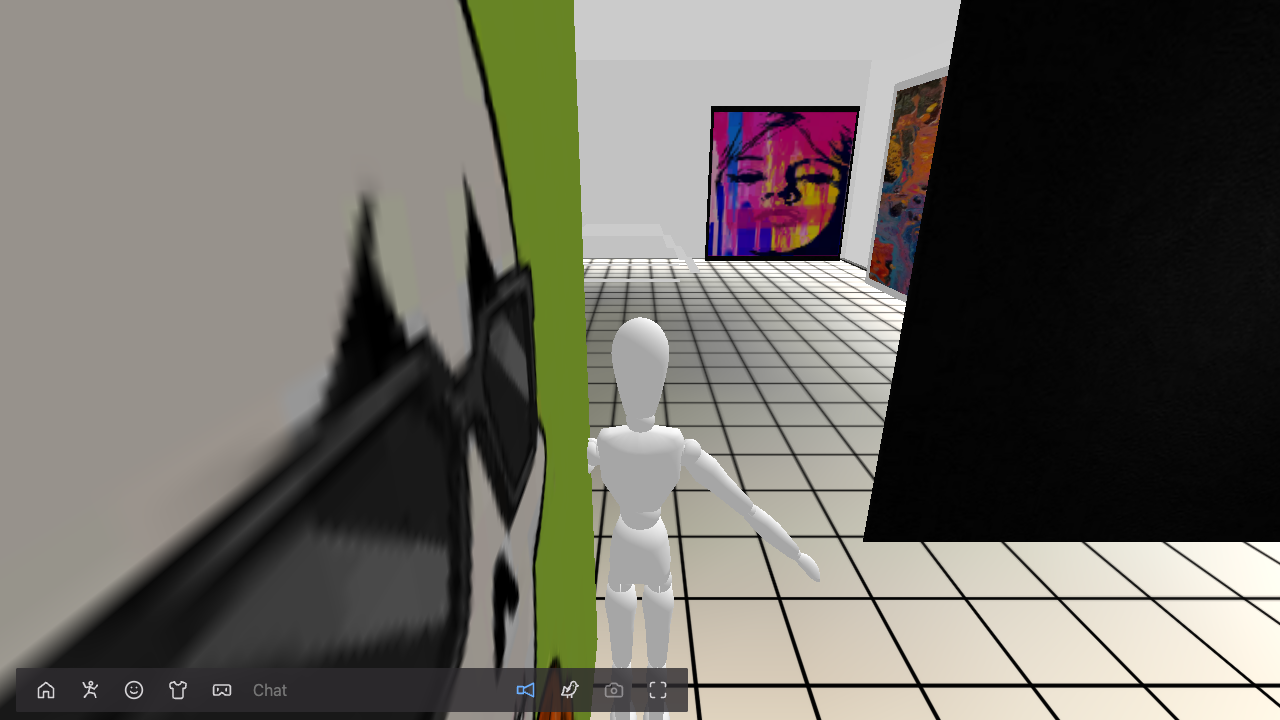
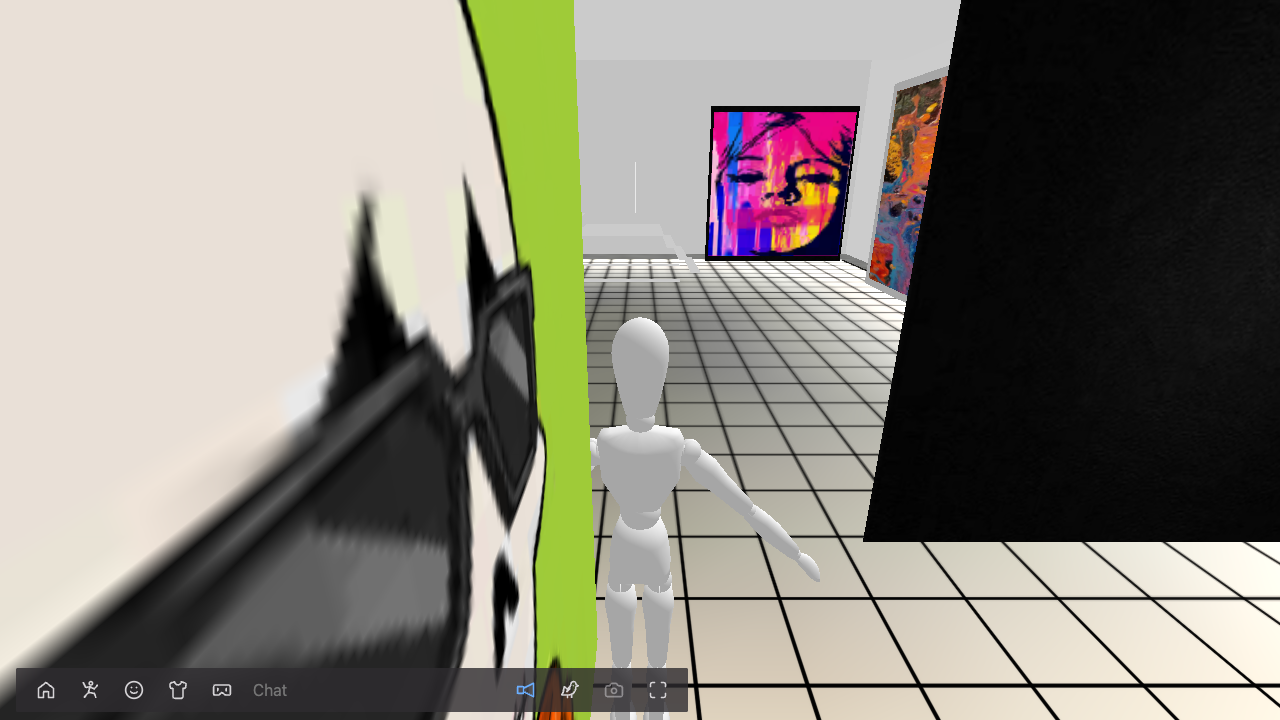
Restore NG transparency and image blending

diff --git a/src/render/renderer.ts b/src/render/renderer.ts
@@ -2,10 +2,12 @@ import { mat4 } from 'wgpu-matrix'
 
 const shader = /* wgsl */ `
 struct Camera { vp: mat4x4<f32>, eye: vec4<f32>, fog: vec4<f32> }
-struct Object { world: mat4x4<f32>, tint: vec4<f32>, uv: vec4<f32> }
+struct Object { world: mat4x4<f32>, tint: vec4<f32>, uv: vec4<f32>, flags: vec4<f32>, opacityUV: vec4<f32> }
 @group(0) @binding(0) var<uniform> camera: Camera;
 @group(1) @binding(0) var picture: texture_2d<f32>;
 @group(1) @binding(1) var filtering: sampler;
+@group(1) @binding(2) var opacity: texture_2d<f32>;
+@group(1) @binding(3) var opacityFiltering: sampler;
 @group(2) @binding(0) var<storage, read> objects: array<Object>;
 struct Vertex {
   @builtin(position) clip: vec4<f32>,
@@ -13,6 +15,8 @@ struct Vertex {
   @location(1) uv: vec2<f32>,
   @location(2) normal: vec3<f32>,
   @location(3) position: vec3<f32>,
+  @location(4) @interpolate(flat) flags: vec4<f32>,
+  @location(5) opacityUV: vec2<f32>,
 }
 @vertex fn vertex(@location(0) position: vec3<f32>, @location(1) normal: vec3<f32>,
   @location(2) uv: vec2<f32>, @location(3) color: vec4<f32>, @builtin(instance_index) instance: u32) -> Vertex {
@@ -20,24 +24,36 @@ struct Vertex {
   let world = object.world * vec4<f32>(position, 1.0);
   var out: Vertex;
   out.clip = camera.vp * world;
-  out.color = color * object.tint;
+  out.color = vec4<f32>(color.rgb, select(1.0, color.a, (u32(object.flags.x) & 8u) != 0u)) * object.tint;
   out.uv = uv * object.uv.xy + object.uv.zw;
+  out.opacityUV = uv * object.opacityUV.xy + object.opacityUV.zw;
+  out.flags = object.flags;
   let a = object.world[0].xyz; let b = object.world[1].xyz; let c = object.world[2].xyz;
   out.normal = normalize(mat3x3<f32>(cross(b,c), cross(c,a), cross(a,b)) * normal * sign(dot(a,cross(b,c))));
   out.position = world.xyz;
   return out;
 }
 @fragment fn fragment(in: Vertex) -> @location(0) vec4<f32> {
-  let surface = textureSample(picture, filtering, in.uv) * in.color;
-  if (surface.a < 0.5) { discard; }
-  let light = 0.65 + 0.35 * max(dot(normalize(in.normal), normalize(vec3<f32>(0.4, 0.8, 0.3))), 0.0);
+  let texel = textureSample(picture, filtering, in.uv);
+  let flags = u32(in.flags.x);
+  let dx = dpdx(in.opacityUV); let dy = dpdy(in.opacityUV);
+  var alpha = in.color.a * select(1.0, texel.a, (flags & 1u) != 0u);
+  if ((flags & 2u) != 0u) {
+    var mask = texel;
+    if ((flags & 32u) == 0u) { mask = textureSampleGrad(opacity, opacityFiltering, in.opacityUV, dx, dy); }
+    alpha *= select(mask.a, dot(mask.rgb, vec3<f32>(0.3, 0.59, 0.11)), (flags & 4u) != 0u) * in.flags.w;
+  }
+  if (alpha < in.flags.y) { discard; }
+  alpha = select(1.0, alpha, in.flags.z != 0.0);
+  let light = select(0.65 + 0.35 * max(dot(normalize(in.normal), normalize(vec3<f32>(0.4, 0.8, 0.3))), 0.0), 1.0, (flags & 16u) != 0u);
   let distance = length(in.position - camera.eye.xyz);
   let fog = smoothstep(camera.fog.w, camera.eye.w, distance);
-  return vec4<f32>(mix(surface.rgb * light, camera.fog.rgb, fog), 1.0);
+  let rgb = mix(texel.rgb * in.color.rgb * light, camera.fog.rgb, fog);
+  return vec4<f32>(rgb * select(1.0, alpha, (flags & 64u) != 0u), alpha);
 }`
 
 type Geometry = { vertices: GPUBuffer; indices: GPUBuffer; count: number; refs: number }
-type Item = { batch: Batch; slot: number }
+type Item = { batch: Batch; slot: number; x: number; y: number; z: number; alphaIndex: number; distance: number }
 type Batch = {
   key: string
   index: number
@@ -52,7 +68,13 @@ type Batch = {
   buffer: GPUBuffer
   binding: GPUBindGroup
   picture: GPUBindGroup
+  mode: number
+  depthWrite: boolean
+  bias: number
+  units: number
 }
+
+const alphaOrder = (a: Item, b: Item) => a.alphaIndex - b.alphaIndex || b.distance - a.distance
 
 // Babylon remains the authoring scene. Only sync touches its mesh hierarchy.
 export class Renderer {
@@ -63,6 +85,7 @@ export class Renderer {
   private pending = new Map<BABYLON.Geometry, Generator<void>>()
   private batches = new Map<string, Batch>()
   private draws: Batch[] = []
+  private transparent: Item[] = []
   private retired = new Set<Batch>()
   private planes = new Float32Array(24)
   private items = new Map<BABYLON.AbstractMesh, Item[]>()
@@ -72,13 +95,15 @@ export class Renderer {
   private uniforms: GPUBuffer[] = []
   private cameras: GPUBindGroup[] = []
   private cameraData = new Float32Array(24)
-  private scratch = new Float32Array(24)
+  private scratch = new Float32Array(32)
   private resolved: { batch: Batch; mat: any; tex: any }[] = []
   private view: BABYLON.Camera[] = []
   private white: GPUTexture
-  private sampler: GPUSampler
+  private samplers = new Map<string, GPUSampler>()
   private layouts: GPUBindGroupLayout[]
-  private pipelines = new Map<GPUTextureFormat, GPURenderPipeline>()
+  private pipelines = new Map<string, GPURenderPipeline>()
+  private module: GPUShaderModule
+  private bound?: Batch
   private depth?: GPUTexture
   private removal: BABYLON.Nullable<BABYLON.Observer<BABYLON.AbstractMesh>>
 
@@ -92,13 +117,15 @@ export class Renderer {
         entries: [
           { binding: 0, visibility: GPUShaderStage.FRAGMENT, texture: {} },
           { binding: 1, visibility: GPUShaderStage.FRAGMENT, sampler: {} },
+          { binding: 2, visibility: GPUShaderStage.FRAGMENT, texture: {} },
+          { binding: 3, visibility: GPUShaderStage.FRAGMENT, sampler: {} },
         ],
       }),
       this.device.createBindGroupLayout({ entries: [{ binding: 0, visibility: GPUShaderStage.VERTEX, buffer: { type: 'read-only-storage' } }] }),
     ]
     this.white = this.device.createTexture({ size: [1, 1], format: 'rgba8unorm', usage: GPUTextureUsage.TEXTURE_BINDING | GPUTextureUsage.COPY_DST })
     this.device.queue.writeTexture({ texture: this.white }, new Uint8Array([255, 255, 255, 255]), {}, [1, 1])
-    this.sampler = this.device.createSampler({ magFilter: 'linear', minFilter: 'linear', mipmapFilter: 'linear', addressModeU: 'repeat', addressModeV: 'repeat' })
+    this.module = this.device.createShaderModule({ code: shader })
     for (let eye = 0; eye < 2; eye++) {
       const buffer = this.device.createBuffer({ size: 96, usage: GPUBufferUsage.UNIFORM | GPUBufferUsage.COPY_DST })
       this.uniforms.push(buffer)
@@ -106,13 +133,57 @@ export class Renderer {
     }
     this.removal = scene.onMeshRemovedObservable.add((mesh) => this.remove(mesh))
     scene.onDisposeObservable.addOnce(() => this.dispose())
-    console.info('NG renderer: flat batches, opaque/cutout surfaces, no Babylon scene.render', scene)
+    console.info('NG renderer: flat batches, no Babylon scene.render')
   }
 
-  private pipeline(format: GPUTextureFormat) {
-    let pipeline = this.pipelines.get(format)
+  private sampler(tex: any) {
+    const u = tex?.wrapU ?? 1,
+      v = tex?.wrapV ?? 1,
+      nearest = tex?.samplingMode === BABYLON.Texture.NEAREST_SAMPLINGMODE
+    const key = `${u}:${v}:${nearest}`
+    let sampler = this.samplers.get(key)
+    if (!sampler) {
+      const modes: GPUAddressMode[] = ['clamp-to-edge', 'repeat', 'mirror-repeat']
+      const filter = nearest ? 'nearest' : 'linear'
+      sampler = this.device.createSampler({ magFilter: filter, minFilter: filter, mipmapFilter: filter, addressModeU: modes[u], addressModeV: modes[v] })
+      this.samplers.set(key, sampler)
+    }
+    return sampler
+  }
+
+  private texture(tex: any) {
+    const internal = tex?.isReady() && tex.getInternalTexture()
+    const texture: GPUTexture = internal?._hardwareTexture?.underlyingResource || this.white
+    return texture.dimension === '2d' && texture.depthOrArrayLayers === 1 && texture.usage & GPUTextureUsage.TEXTURE_BINDING ? texture : this.white
+  }
+
+  private pipeline(format: GPUTextureFormat, batch: Batch) {
+    const key = `${format}:${batch.mode}:${batch.depthWrite}:${batch.bias}:${batch.units}`
+    let pipeline = this.pipelines.get(key)
     if (pipeline) return pipeline
-    const module = this.device.createShaderModule({ code: shader })
+    const module = this.module
+    let blend: GPUBlendState | undefined
+    if (batch.mode !== BABYLON.Engine.ALPHA_DISABLE) {
+      blend = { color: { srcFactor: 'src-alpha', dstFactor: 'one-minus-src-alpha' }, alpha: { srcFactor: 'one', dstFactor: 'one' } }
+      switch (batch.mode) {
+        case BABYLON.Engine.ALPHA_MULTIPLY:
+          blend.color = { srcFactor: 'dst', dstFactor: 'zero' }
+          break
+        case BABYLON.Engine.ALPHA_SCREENMODE:
+          blend.color = { srcFactor: 'one', dstFactor: 'one-minus-src' }
+          blend.alpha.dstFactor = 'one-minus-src-alpha'
+          break
+        case BABYLON.Engine.ALPHA_ADD:
+          blend.color.dstFactor = 'one'
+          blend.alpha.srcFactor = 'zero'
+          break
+        case BABYLON.Engine.ALPHA_PREMULTIPLIED:
+        case BABYLON.Engine.ALPHA_PREMULTIPLIED_PORTERDUFF:
+          blend.color.srcFactor = 'one'
+          if (batch.mode === BABYLON.Engine.ALPHA_PREMULTIPLIED_PORTERDUFF) blend.alpha.dstFactor = 'one-minus-src-alpha'
+          break
+      }
+    }
     pipeline = this.device.createRenderPipeline({
       layout: this.device.createPipelineLayout({ bindGroupLayouts: this.layouts }),
       vertex: {
@@ -130,11 +201,11 @@ export class Renderer {
           },
         ],
       },
-      fragment: { module, entryPoint: 'fragment', targets: [{ format }] },
+      fragment: { module, entryPoint: 'fragment', targets: [{ format, blend }] },
       primitive: { topology: 'triangle-list', cullMode: 'none' },
-      depthStencil: { format: 'depth24plus', depthWriteEnabled: true, depthCompare: 'less-equal' },
+      depthStencil: { format: 'depth24plus', depthWriteEnabled: batch.depthWrite, depthCompare: 'less-equal', depthBias: batch.units, depthBiasSlopeScale: batch.bias },
     })
-    this.pipelines.set(format, pipeline)
+    this.pipelines.set(key, pipeline)
     return pipeline
   }
 
@@ -181,7 +252,7 @@ export class Renderer {
 
   private resize(batch: Batch) {
     const old = batch.buffer
-    const data = new Float32Array(Math.max(16 * 24, batch.data.length * 2))
+    const data = new Float32Array(Math.max(16 * 32, batch.data.length * 2))
     data.set(batch.data)
     batch.data = data
     batch.buffer = this.device.createBuffer({ size: data.byteLength, usage: GPUBufferUsage.STORAGE | GPUBufferUsage.COPY_DST })
@@ -198,9 +269,9 @@ export class Renderer {
       const last = b.items.pop()!
       if (last !== item) {
         b.items[item.slot] = last
-        b.data.copyWithin(item.slot * 24, last.slot * 24, last.slot * 24 + 24)
+        b.data.copyWithin(item.slot * 32, last.slot * 32, last.slot * 32 + 32)
         last.slot = item.slot
-        this.device.queue.writeBuffer(b.buffer, item.slot * 96, b.data.buffer, item.slot * 96, 96)
+        this.device.queue.writeBuffer(b.buffer, item.slot * 128, b.data.buffer, item.slot * 128, 128)
       }
       if (!b.items.length) this.retired.add(b)
       this.stats.objects--
@@ -234,12 +305,18 @@ export class Renderer {
       const part = parts[p]
       const mat: any = part.getMaterial()
       const tex = mat?.diffuseTexture || mat?.albedoTexture || mat?.emissiveTexture
-      const internal = tex?.isReady() && tex.getInternalTexture()
-      let texture: GPUTexture = internal?._hardwareTexture?.underlyingResource || this.white
-      if (texture.dimension !== '2d' || texture.depthOrArrayLayers !== 1 || !(texture.usage & GPUTextureUsage.TEXTURE_BINDING)) texture = this.white
+      const texture = this.texture(tex),
+        opacity = this.texture(mat?.opacityTexture)
       let tid = this.textures.get(texture)
       if (!tid) this.textures.set(texture, (tid = ++this.textureId))
-      const key = geometry.uniqueId + ':' + part.indexStart + ':' + part.indexCount + ':' + tid
+      let oid = this.textures.get(opacity)
+      if (!oid) this.textures.set(opacity, (oid = ++this.textureId))
+      const mode = mat?.needAlphaBlendingForMesh(mesh) ? mat.alphaMode : BABYLON.Engine.ALPHA_DISABLE
+      const depthWrite = !!mat?.forceDepthWrite || (!mat?.disableDepthWrite && mode === BABYLON.Engine.ALPHA_DISABLE)
+      const bias = mat?.zOffset || 0,
+        units = mat?.zOffsetUnits || 0
+      const mask = mat?.opacityTexture
+      const key = `${geometry.uniqueId}:${part.indexStart}:${part.indexCount}:${tid}:${oid}:${tex?.wrapU}:${tex?.wrapV}:${tex?.samplingMode}:${mask?.wrapU}:${mask?.wrapV}:${mask?.samplingMode}:${mode}:${depthWrite}:${bias}:${units}`
       let batch = this.batches.get(key)
       if (!batch) {
         batch = {
@@ -249,6 +326,10 @@ export class Renderer {
           geometry: gpu,
           source: geometry,
           texture,
+          mode,
+          depthWrite,
+          bias,
+          units,
           start: part.indexStart,
           count: part.indexCount,
           items: [],
@@ -257,7 +338,9 @@ export class Renderer {
             layout: this.layouts[1],
             entries: [
               { binding: 0, resource: texture.createView() },
-              { binding: 1, resource: this.sampler },
+              { binding: 1, resource: this.sampler(tex) },
+              { binding: 2, resource: opacity.createView() },
+              { binding: 3, resource: this.sampler(mask) },
             ],
           }),
         } as any
@@ -280,8 +363,8 @@ export class Renderer {
       let item = items[p]
       if (!item) {
         this.retired.delete(batch)
-        if ((batch.items.length + 1) * 24 > batch.data.length) this.resize(batch)
-        item = { batch, slot: batch.items.length }
+        if ((batch.items.length + 1) * 32 > batch.data.length) this.resize(batch)
+        item = { batch, slot: batch.items.length, x: 0, y: 0, z: 0, alphaIndex: 0, distance: 0 }
         batch.items.push(item)
         items.push(item)
         this.stats.objects++
@@ -296,18 +379,36 @@ export class Renderer {
       this.scratch[21] = tex?.vScale ?? 1
       this.scratch[22] = tex?.uOffset ?? 0
       this.scratch[23] = tex?.vOffset ?? 0
+      const mask = mat?.opacityTexture
+      const testing = mat?.needAlphaTesting() && (batch.mode === BABYLON.Engine.ALPHA_DISABLE || mat.transparencyMode === BABYLON.Material.MATERIAL_ALPHATESTANDBLEND)
+      const diffuseAlpha = tex?.hasAlpha && (testing || mat?.useAlphaFromDiffuseTexture || mat?.useAlphaFromAlbedoTexture)
+      const emissive = mat?.emissiveColor
+      const unlit = mat?.disableLighting || (emissive?.r >= 1 && emissive?.g >= 1 && emissive?.b >= 1)
+      this.scratch[24] = (diffuseAlpha ? 1 : 0) | (mask ? 2 : 0) | (mask?.getAlphaFromRGB ? 4 : 0) | (mesh.hasVertexAlpha ? 8 : 0) | (unlit ? 16 : 0) | (mask && mask === tex ? 32 : 0)
+      if (batch.mode === BABYLON.Engine.ALPHA_PREMULTIPLIED || batch.mode === BABYLON.Engine.ALPHA_PREMULTIPLIED_PORTERDUFF) this.scratch[24] |= 64
+      this.scratch[25] = testing ? (mat.alphaCutOff ?? 0.4) : -1
+      this.scratch[26] = batch.mode === BABYLON.Engine.ALPHA_DISABLE ? 0 : 1
+      this.scratch[27] = mask?.level ?? 1
+      this.scratch[28] = mask?.uScale ?? 1
+      this.scratch[29] = mask?.vScale ?? 1
+      this.scratch[30] = mask?.uOffset ?? 0
+      this.scratch[31] = mask?.vOffset ?? 0
       const bounds = mesh.getBoundingInfo().boundingBox
       const lo = bounds.minimumWorld,
         hi = bounds.maximumWorld
+      item.x = (lo.x + hi.x) * 0.5
+      item.y = (lo.y + hi.y) * 0.5
+      item.z = (lo.z + hi.z) * 0.5
+      item.alphaIndex = mesh.alphaIndex
       batch.bounds[0] = Math.min(batch.bounds[0], lo.x)
       batch.bounds[1] = Math.min(batch.bounds[1], lo.y)
       batch.bounds[2] = Math.min(batch.bounds[2], lo.z)
       batch.bounds[3] = Math.max(batch.bounds[3], hi.x)
       batch.bounds[4] = Math.max(batch.bounds[4], hi.y)
       batch.bounds[5] = Math.max(batch.bounds[5], hi.z)
-      const offset = item.slot * 24
+      const offset = item.slot * 32
       let dirty = changed
-      for (let i = 0; i < 24; i++)
+      for (let i = 0; i < 32; i++)
         if (batch.data[offset + i] !== this.scratch[i]) {
           dirty = true
           break
@@ -362,6 +463,21 @@ export class Renderer {
     this.stats.syncMs = performance.now() - start
   }
 
+  private draw(pass: GPURenderPassEncoder, format: GPUTextureFormat, batch: Batch, item?: Item) {
+    if (this.bound !== batch) {
+      pass.setPipeline(this.pipeline(format, batch))
+      pass.setBindGroup(1, batch.picture)
+      pass.setBindGroup(2, batch.binding)
+      pass.setVertexBuffer(0, batch.geometry.vertices)
+      pass.setIndexBuffer(batch.geometry.indices, 'uint32')
+      this.bound = batch
+    }
+    const count = item ? 1 : batch.items.length
+    pass.drawIndexed(batch.count, count, batch.start, 0, item?.slot || 0)
+    this.stats.draws++
+    this.stats.triangles += (batch.count * count) / 3
+  }
+
   render() {
     const start = performance.now(),
       scene = this.scene
@@ -403,7 +519,8 @@ export class Renderer {
         colorAttachments: [{ view: color.createView({ dimension: '2d', baseArrayLayer: target?.layerIndex || 0, arrayLayerCount: 1 }), clearValue: { r: fog.r, g: fog.g, b: fog.b, a: 1 }, loadOp: 'clear', storeOp: 'store' }],
         depthStencilAttachment: { view: this.depth.createView(), depthClearValue: 1, depthLoadOp: 'clear', depthStoreOp: 'discard' },
       })
-      pass.setPipeline(this.pipeline(color.format))
+      this.bound = undefined
+      this.transparent.length = 0
       pass.setBindGroup(0, this.cameras[eye])
       if (target) pass.setViewport(view.viewport.x * color.width, view.viewport.y * color.height, view.viewport.width * color.width, view.viewport.height * color.height, 0, 1)
       const m = this.cameraData
@@ -425,14 +542,16 @@ export class Renderer {
           }
         }
         if (!visible) continue
-        pass.setBindGroup(1, batch.picture)
-        pass.setBindGroup(2, batch.binding)
-        pass.setVertexBuffer(0, batch.geometry.vertices)
-        pass.setIndexBuffer(batch.geometry.indices, 'uint32')
-        pass.drawIndexed(batch.count, batch.items.length, batch.start)
-        this.stats.draws++
-        this.stats.triangles += (batch.count * batch.items.length) / 3
+        if (batch.mode === BABYLON.Engine.ALPHA_DISABLE) this.draw(pass, color.format, batch)
+        else
+          for (const item of batch.items) {
+            item.distance = (item.x - position.x) ** 2 + (item.y - position.y) ** 2 + (item.z - position.z) ** 2
+            this.transparent.push(item)
+          }
       }
+      // Transparent instances need per-eye ordering; opaque geometry stays instanced.
+      this.transparent.sort(alphaOrder)
+      for (const item of this.transparent) this.draw(pass, color.format, item.batch, item)
       pass.end()
       this.stats.passes++
     }
@@ -455,6 +574,7 @@ export class Renderer {
     this.pending.clear()
     this.batches.clear()
     this.draws.length = 0
+    this.transparent.length = 0
     this.retired.clear()
     this.geometries.clear()
     this.items.clear()
